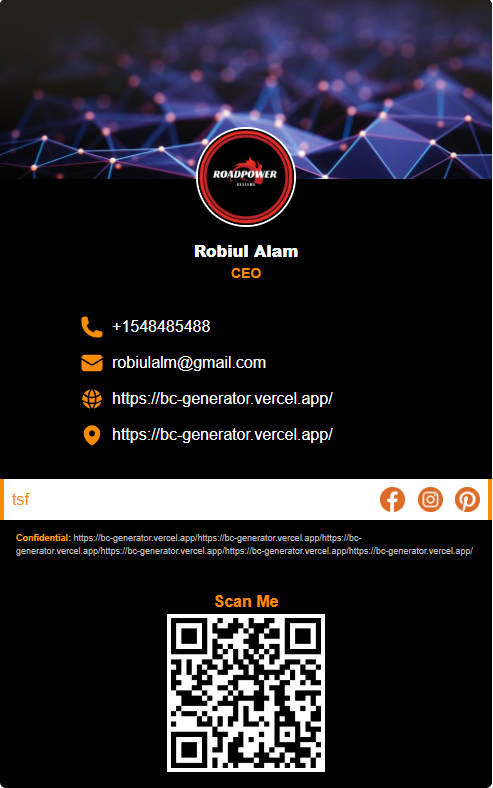
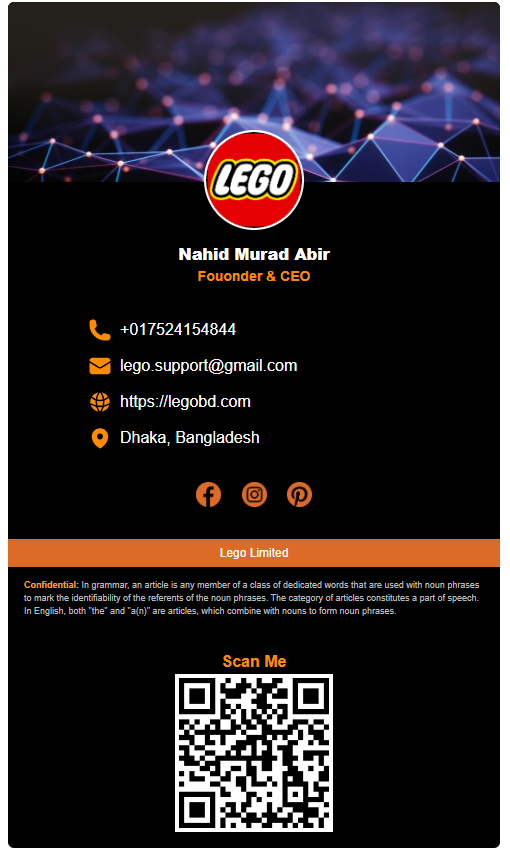
template new update done

Changed region(s): [[0.0, 0.0, 1.0, 1.0], [0.0609, 0.0914, 0.1217, 0.1218]]

diff --git a/src/components/templates/TempleteMain.js b/src/components/templates/TempleteMain.js
@@ -26,6 +26,7 @@ import { SpinnerCircularFixed } from "spinners-react";
 import { dcards } from "@/lib/datas/digital-cards";
 import Image from "next/image";
 import TemplateSidebar from "./TemplateSidebar";
+import { useReactToPrint } from "react-to-print";
 
 const TemplateMain = () => {
   const [sendSourceCode, { isLoading: sourceLoading }] =
@@ -57,16 +58,25 @@ const TemplateMain = () => {
   };
 
   const handleSourceCode = async () => {
-    const options = {
-      data: { email: ticket?.email, html: html },
-    };
-    const result = await sendSourceCode(options);
-    if (result?.data?.success) {
-      toast.success("Source Code send to email");
-    } else {
-      toast.error("Something went wrong!");
-    }
+    var iframe = document.getElementById("print");
+    html2canvas(iframe.contentDocument.body).then(async function (canvas) {
+      var dataURL = canvas.toDataURL();
+      const options = {
+        data: { email: ticket?.email, html: html, temp_img: dataURL },
+      };
+      const result = await sendSourceCode(options);
+      if (result?.data?.success) {
+        toast.success("Source Code send to email");
+      } else {
+        toast.error("Something went wrong!");
+      }
+    });
   };
+
+  const componentRef = useRef();
+  const handlePrint = useReactToPrint({
+    content: () => componentRef.current,
+  });
 
   const printTemplate = async () => {
     const element = document.getElementById("print"),
@@ -160,11 +170,11 @@ const TemplateMain = () => {
               <div className="flex flex-col justify-center items-center h-screen">
                 {templateTab === 0 && (
                   <div className="flex flex-col items-end gap-4">
-                    <div id="print" className="bg-white">
+                    <div ref={componentRef} className="bg-white">
                       {selectedTmp?.template}
                     </div>
                     <Button
-                      onClick={() => printTemplate()}
+                      onClick={() => handlePrint()}
                       size="sm"
                       className="rounded-sm shadow-none hover:shadow-none h-8 bg-gradient-to-r from-blue-700 to-primary
                   hover:bg-gradient-to-r hover:from-primary hover:to-blue-700 transition-all ease-in duration-500 text-xs text-current text-white"
@@ -251,84 +261,98 @@ const TemplateMain = () => {
                 )}
 
                 {templateTab === 3 && (
-                  <div className="bg-white p-5 w-full max-w-[800px] rounded">
-                    <h1 className="text-left font-bold mb-2 text-black">
-                      Choose Digital Card
-                    </h1>
-                    <div className="w-full h-fit grid sm:grid-cols-2 md:grid-cols-3 gap-4">
-                      {dcards.map((dCard, index) => (
-                        <div
-                          onClick={() => handleChooseDcard(dCard?._id)}
-                          key={index}
-                          className={`flex items-center justify-center  h-[150px] cursor-pointer ${
-                            tempResult?.dcard_id === dCard?._id
-                              ? "border-2 border-blue-600 shadow-md shadow-gray-500"
-                              : "border-2 hover:border-2 hover:border-blue-600 hover:shadow-md shadow-gray-500 duration-150"
-                          }`}
-                        >
-                          <Image
-                            src={dCard?.thumbnail}
-                            className="w-full object-contain h-full"
-                            alt=""
+                  <>
+                    <div className="opacity-0 absolute z-10">
+                      <iframe
+                        id="print"
+                        style={{
+                          height: "400px",
+                          width: "600px",
+                          margin: "0 auto",
+                        }}
+                        srcDoc={html}
+                      ></iframe>
+                    </div>
+                    <div className="bg-white p-5 w-full max-w-[800px] rounded z-50">
+                      <h1 className="text-left font-bold mb-2 text-black">
+                        Choose Digital Card
+                      </h1>
+                      <div className="w-full h-fit grid sm:grid-cols-2 md:grid-cols-3 gap-4">
+                        {dcards.map((dCard, index) => (
+                          <div
+                            onClick={() => handleChooseDcard(dCard?._id)}
+                            key={index}
+                            className={`flex items-center justify-center  h-[150px] cursor-pointer ${
+                              tempResult?.dcard_id === dCard?._id
+                                ? "border-2 border-blue-600 shadow-md shadow-gray-500"
+                                : "border-2 hover:border-2 hover:border-blue-600 hover:shadow-md shadow-gray-500 duration-150"
+                            }`}
+                          >
+                            <Image
+                              src={dCard?.thumbnail}
+                              className="w-full object-contain h-full"
+                              alt=""
+                            />
+                          </div>
+                        ))}
+                      </div>
+                      <div className="flex flex-col items-center gap-4 mt-8">
+                        <div id="qrCode" className="p-1">
+                          <QRCode
+                            value={`${CLIENT_URL}/temps/${tempResult?.template_link}`}
+                            style={{ height: "150px", width: "150px" }}
                           />
                         </div>
-                      ))}
-                    </div>
-                    <div className="flex flex-col items-center gap-4 mt-8">
-                      <div id="qrCode" className="p-1">
-                        <QRCode
-                          value={`${CLIENT_URL}/temps/${tempResult?.template_link}`}
-                          style={{ height: "150px", width: "150px" }}
-                        />
-                      </div>
-                      <Button
-                        onClick={() => downloadQRCode()}
-                        size="sm"
-                        className="rounded-sm shadow-none hover:shadow-none h-8 bg-gradient-to-r from-blue-700 to-primary
-                  hover:bg-gradient-to-r hover:from-primary hover:to-blue-700 transition-all ease-in duration-500 text-xs text-current text-white"
-                      >
-                        Download
-                      </Button>
-                    </div>
-
-                    <div className="mt-8">
-                      {tempResult?.template_link && (
-                        <div className="flex justify-center items-center gap-4 mt-4">
-                          <div className="text-xs min-h-[40px] w-fit max-w-[800px] bg-black text-gray-300 px-2 flex items-center rounded">
-                            {`${CLIENT_URL}/temps/${tempResult?.template_link}`}
-                          </div>
-                          <Button
-                            onClick={() =>
-                              copyToClipboard(
-                                `${CLIENT_URL}/temps/${tempResult?.template_link}`
-                              )
-                            }
-                            className="bg-primary h-10 w-14 flex justify-center items-center shadow-none hover:shadow-none text-white text-xs rounded"
-                          >
-                            <small>Copy</small>
-                          </Button>
-                        </div>
-                      )}
-                      <div className="flex justify-center items-center gap-4 mt-4">
                         <Button
-                          onClick={() => handleSourceCode()}
+                          onClick={() => downloadQRCode()}
                           size="sm"
-                          className="rounded-sm shadow-none hover:shadow-none h-8 text-white bg-blue-600 flex justify-center items-center gap-3"
+                          className="rounded-sm shadow-none hover:shadow-none h-8 bg-gradient-to-r from-blue-700 to-primary
+                  hover:bg-gradient-to-r hover:from-primary hover:to-blue-700 transition-all ease-in duration-500 text-xs text-current text-white"
                         >
-                          {sourceLoading && (
-                            <SpinnerCircularFixed
-                              size={22}
-                              thickness={150}
-                              speed={450}
-                              color="white"
-                              secondaryColor="gray"
-                            />
-                          )}
-                          Get Source Code
+                          Download
                         </Button>
                       </div>
+
+                      <div className="mt-8">
+                        {tempResult?.template_link && (
+                          <div className="flex justify-center items-center gap-4 mt-4">
+                            <div className="text-xs min-h-[40px] w-fit max-w-[800px] bg-black text-gray-300 px-2 flex items-center rounded">
+                              {`${CLIENT_URL}/temps/${tempResult?.template_link}`}
+                            </div>
+                            <Button
+                              onClick={() =>
+                                copyToClipboard(
+                                  `${CLIENT_URL}/temps/${tempResult?.template_link}`
+                                )
+                              }
+                              className="bg-primary h-10 w-14 flex justify-center items-center shadow-none hover:shadow-none text-white text-xs rounded"
+                            >
+                              <small>Copy</small>
+                            </Button>
+                          </div>
+                        )}
+
+                        <div className="flex justify-center items-center gap-4 mt-4">
+                          <Button
+                            onClick={() => handleSourceCode()}
+                            size="sm"
+                            className="rounded-sm shadow-none hover:shadow-none h-8 text-white bg-blue-600 flex justify-center items-center gap-3"
+                          >
+                            {sourceLoading && (
+                              <SpinnerCircularFixed
+                                size={22}
+                                thickness={150}
+                                speed={450}
+                                color="white"
+                                secondaryColor="gray"
+                              />
+                            )}
+                            Get Source Code
+                          </Button>
+                        </div>
+                      </div>
                     </div>
-                  </div>
+                  </>
                 )}
               </div>
             )}

diff --git a/src/components/digital-cards/Card2.js b/src/components/digital-cards/Card2.js
@@ -10,36 +10,38 @@ const Card2 = () => {
   return (
     <div className="bg-white h-full pb-4 border-4 ">
       <div className="relative h-[200px]">
-        <div className="rounded-t-md overflow-hidden max-h-[200px] border-b-2">
+        <div className="rounded-t-md overflow-hidden max-h-[250px] border-b-2">
           <img
             src="https://t4.ftcdn.net/jpg/05/31/79/69/360_F_531796938_Gww8GsUSycc78QiaR5seCzl9RW1gr6vU.jpg"
             alt="image"
-            className="object-cover w-full h-full min-h-[200px]"
+            className="object-cover w-full h-full min-h-[250px]"
           />
         </div>
-        <div className="absolute -bottom-16 w-full flex justify-center items-center">
+        <div className="absolute -bottom-32 w-full flex justify-center items-center">
           <img
             src={liveTempData?.template?.logo}
             alt=""
-            className="h-[120px] w-[120px] object-cover rounded-full border-2 border-white"
+            className="h-[160px] w-[160px] object-cover rounded-full border-2 border-white"
           />
         </div>
       </div>
-      <div className="mt-20">
-        <h1 className="text-center font-extrabold font-inter text-black">
+      <div className="mt-36">
+        <h1 className="text-center font-extrabold font-inter text-black text-xl">
           {liveTempData?.template?.name}
         </h1>
         <p className="text-center text-sm font-semibold font-inter text-black">
           {liveTempData?.template?.designation}
         </p>
       </div>
-      <div className="grid grid-cols-1 gap-3 mt-8 ml-6 md:ml-20">
+      <div className="grid grid-cols-1 gap-3 mt-8 ml-6 md:ml-16">
         <a
           href={`tel:+${liveTempData?.template?.phone}`}
           target="_blank"
           className="flex items-center gap-2 text-black font-semibold text-sm h-fit"
         >
-          <div className="text-black">{iPhone}</div>
+          <div className="text-white bg-black w-[35px] h-[35px] rounded-full p-1 flex justify-center items-center">
+            {iPhone}
+          </div>
           <p>+{liveTempData?.template?.phone}</p>
         </a>
 
@@ -48,7 +50,9 @@ const Card2 = () => {
           target="_blank"
           className="flex items-center gap-2 text-black font-semibold text-sm h-fit"
         >
-          <div className="text-black">{iMail}</div>
+          <div className="text-white bg-black w-[35px] h-[35px] rounded-full p-1 flex justify-center items-center">
+            {iMail}
+          </div>
           <p>{liveTempData?.template?.email}</p>
         </a>
 
@@ -57,17 +61,21 @@ const Card2 = () => {
           target="_blank"
           className="flex items-center gap-2 text-black font-semibold text-sm h-fit"
         >
-          <div className="text-black">{iWeb}</div>
+          <div className="text-white bg-black w-[35px] h-[35px] rounded-full p-1 flex justify-center items-center">
+            {iWeb}
+          </div>
           <p>{liveTempData?.template?.website}</p>
         </a>
 
         <p className="flex items-center gap-2 text-black font-semibold text-sm h-fit">
-          <div className="text-black">{iLocation}</div>
+          <div className="text-white bg-black w-[35px] h-[35px] rounded-full p-1 flex justify-center items-center">
+            {iLocation}
+          </div>
           <p>{liveTempData?.template?.address}</p>
         </p>
       </div>
 
-      <div className="flex flex-col justify-center items-center w-full mt-8">
+      <div className="flex flex-col justify-center items-center w-full mt-16">
         <h1 className="text-center font-semibold text-black">Scan Me</h1>
         <div id="qrCode" className="p-1 bg-white">
           <QRCode

diff --git a/src/lib/datas/digital-cards.js b/src/lib/datas/digital-cards.js
@@ -2,10 +2,11 @@ import Card1 from "@/components/digital-cards/Card1";
 import DefaultCard from "@/components/digital-cards/DefaultCard";
 import img1 from "../../assets/images/digital-cards/card1.png";
 import img2 from "../../assets/images/digital-cards/card2.png";
+import img3 from "../../assets/images/digital-cards/card3.png";
 import Card2 from "@/components/digital-cards/Card2";
 
 export const dcards = [
   { _id: 1, component: <DefaultCard />, thumbnail: img1 },
   { _id: 2, component: <Card1 />, thumbnail: img2 },
-  { _id: 3, component: <Card2 />, thumbnail: img1 },
+  { _id: 3, component: <Card2 />, thumbnail: img3 },
 ];

diff --git a/src/lib/global.js b/src/lib/global.js
@@ -1,4 +1,4 @@
-// export const BASE_URL = "http://localhost:8000/api/v1";
-export const BASE_URL = "https://bcg-server.onrender.com/api/v1";
+export const BASE_URL = "http://localhost:8000/api/v1";
+// export const BASE_URL = "https://bcg-server.onrender.com/api/v1";
 export const SECRETE_TOKEN = "";
 export const CLIENT_URL = "https://bc-generator.vercel.app";
